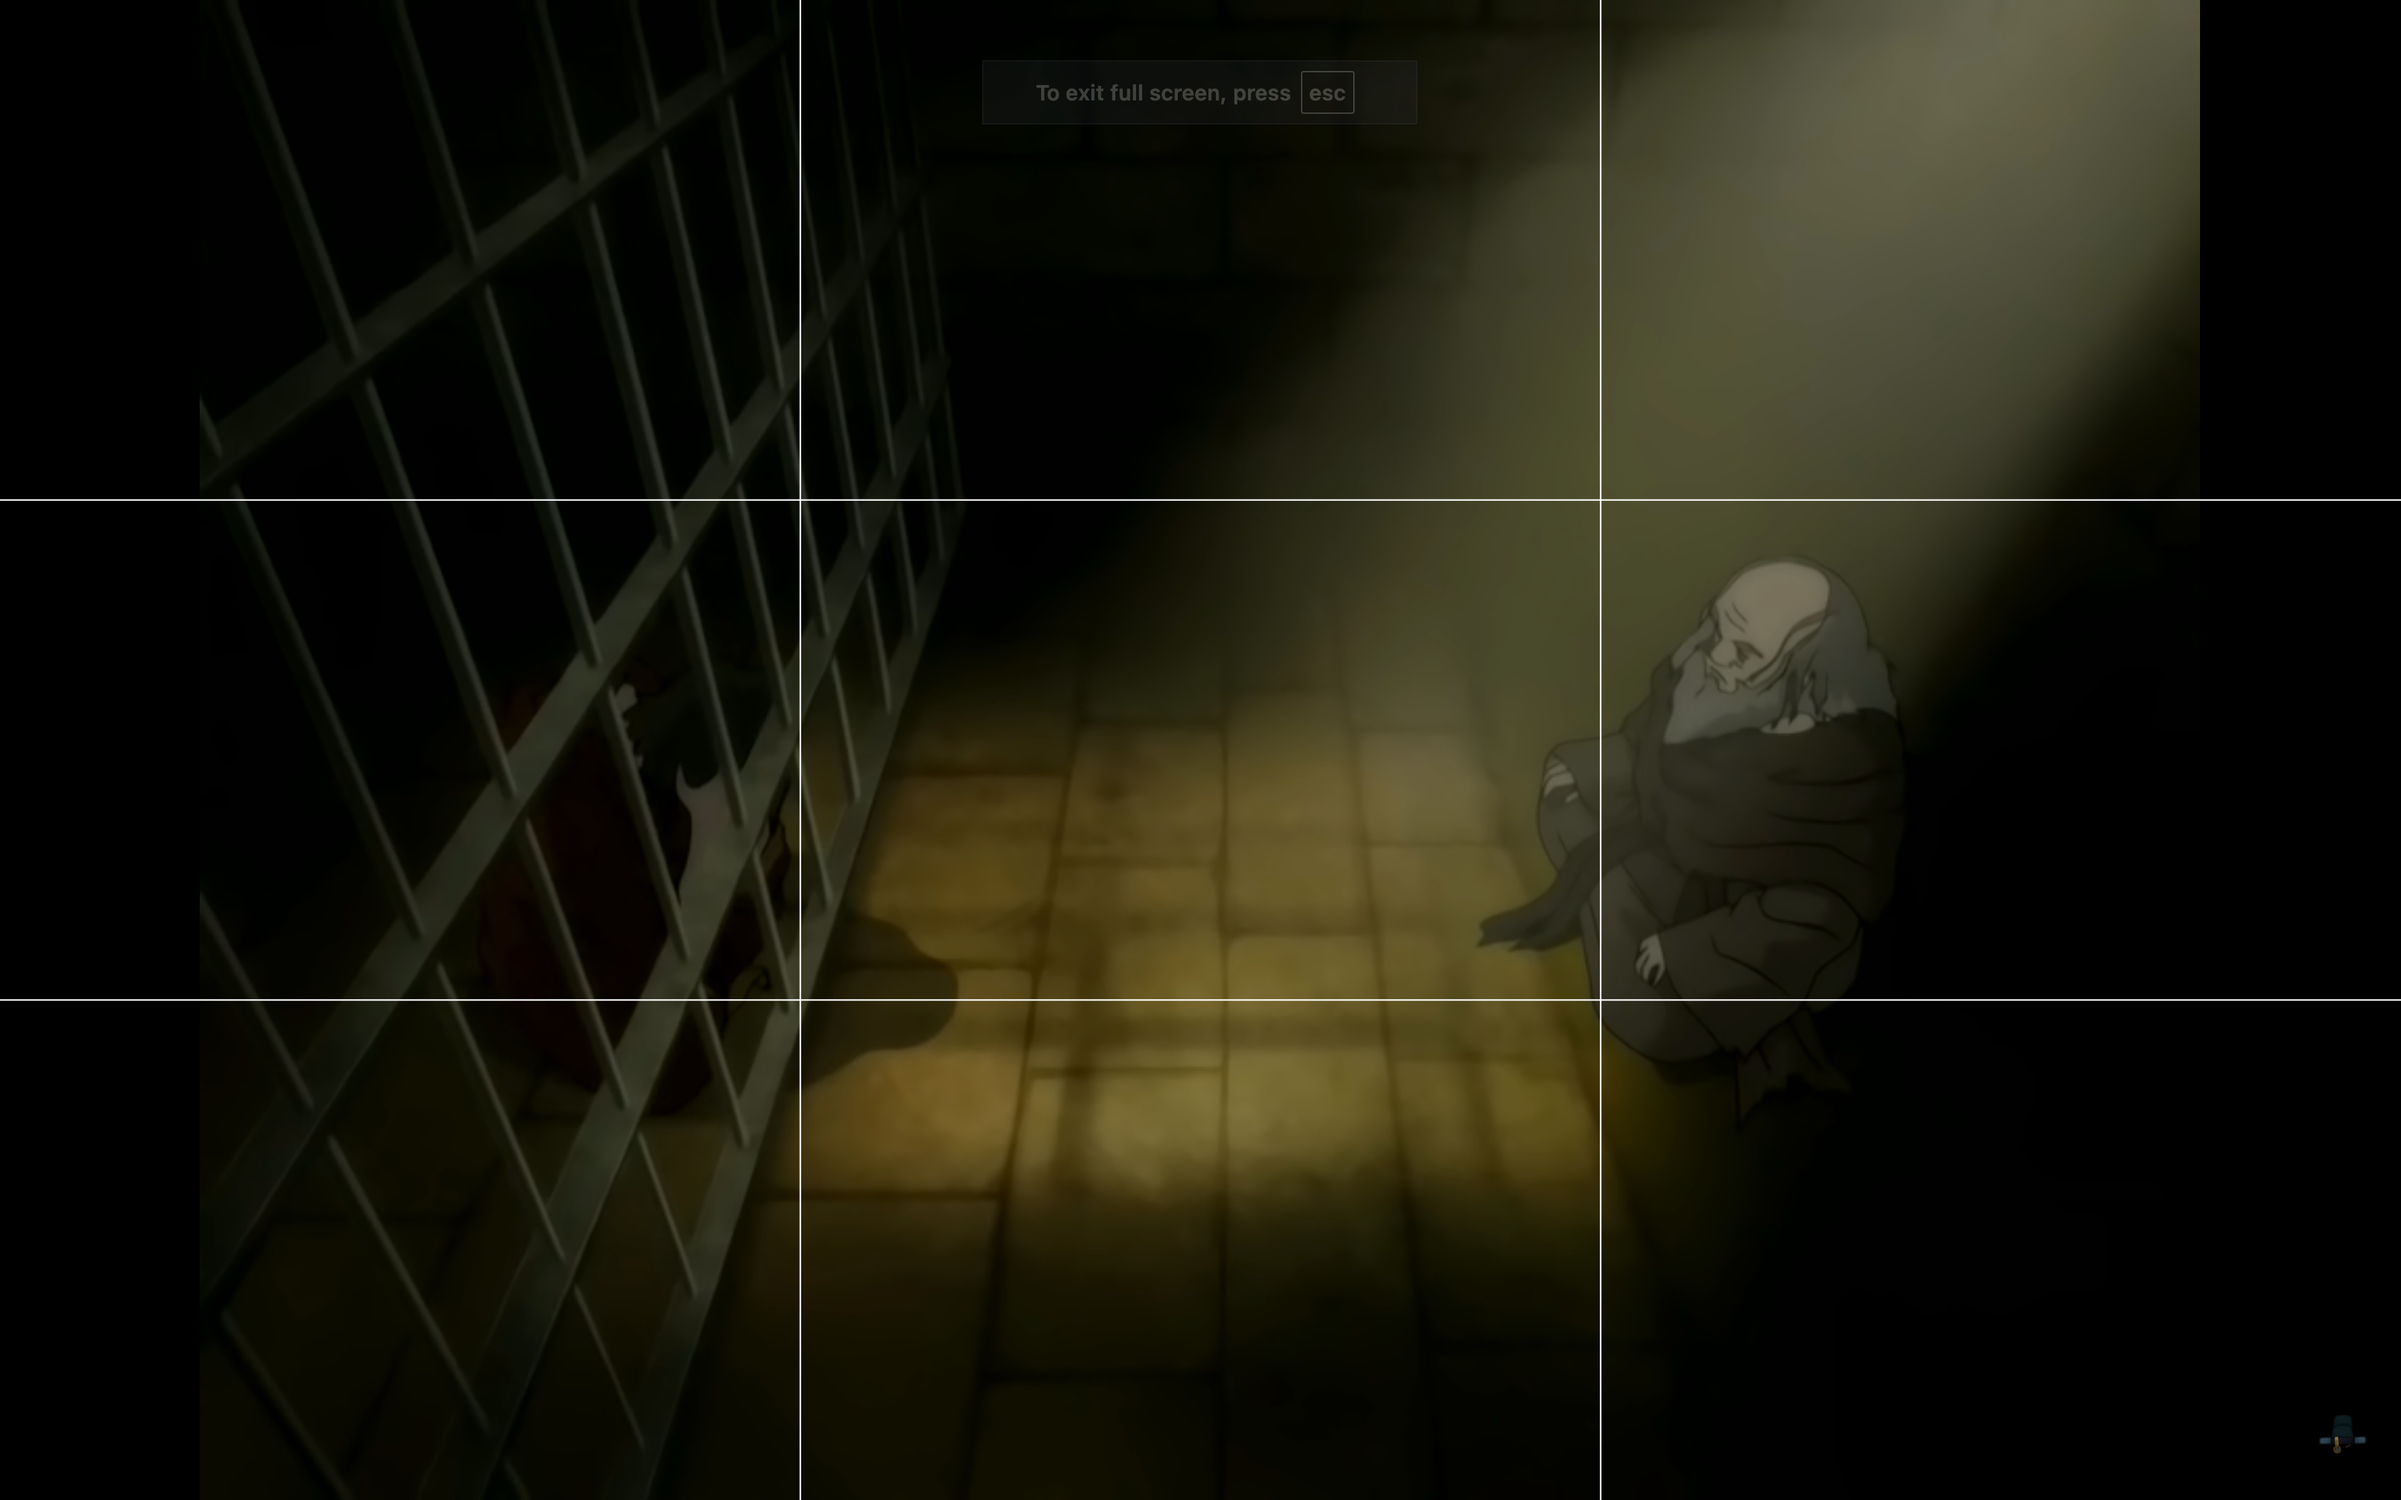
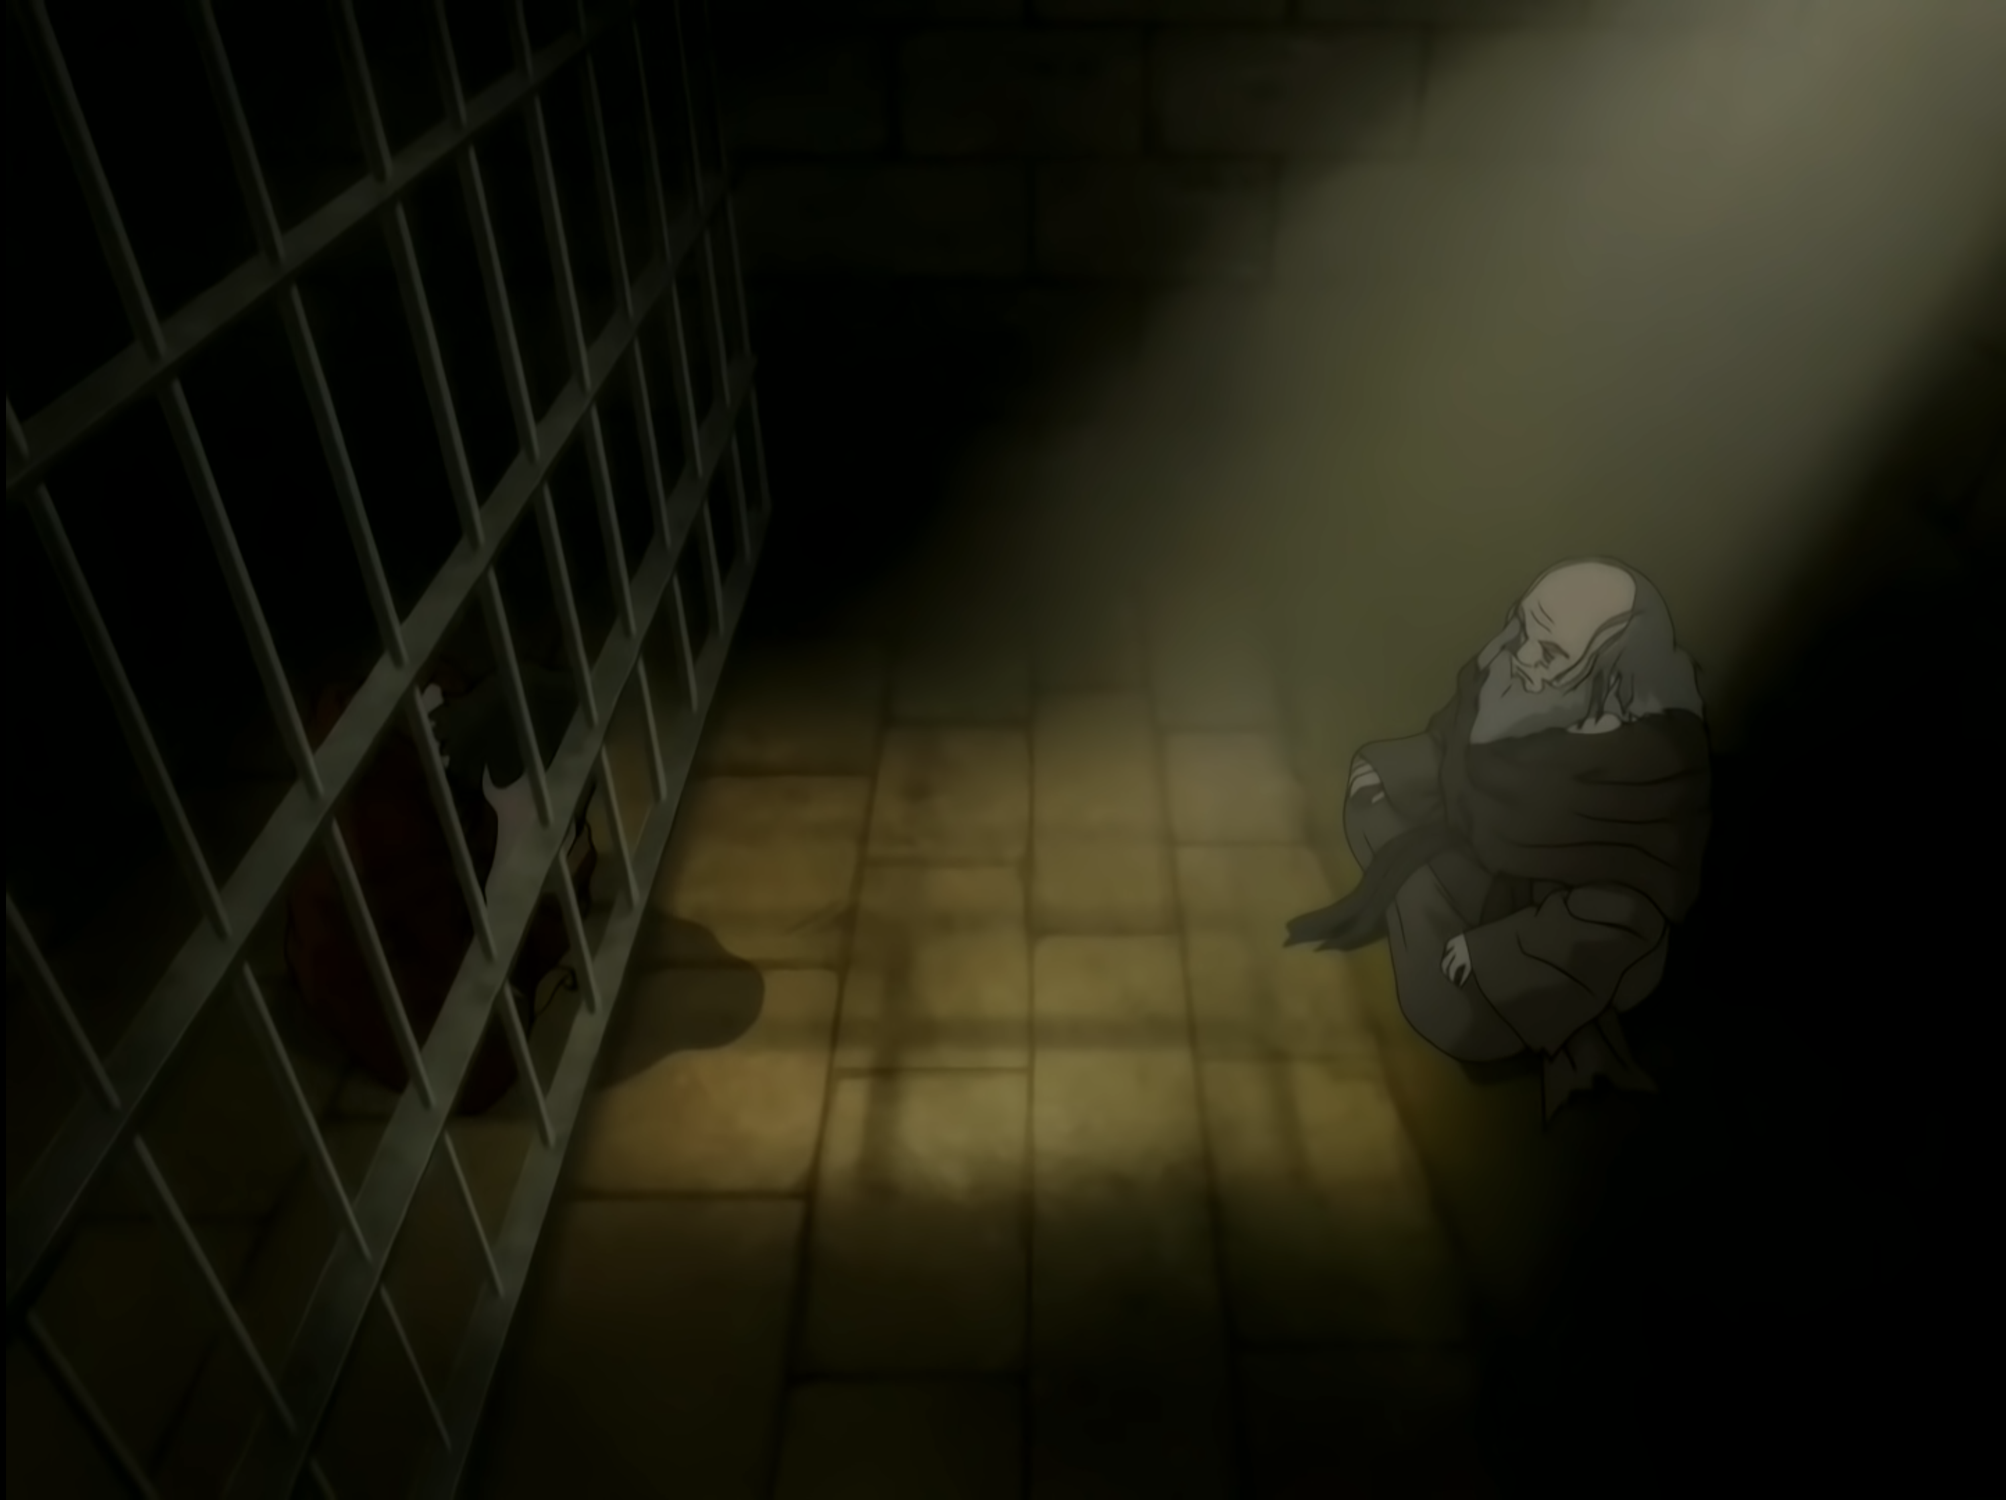
image changes, milestone 6 changes

diff --git a/project5/index.html b/project5/index.html
@@ -3,13 +3,9 @@
         <head>
             <meta charset=utf-8>
             <meta name="viewport" content="width=device-width, initial-scale=1.0">
+            <link rel="stylesheet" href="p5_scripts.js">
+            <link rel="stylesheet" href="p5_styles.css">
             <Title>The Power of Visual Media</Title>
-            <!-- 
-            <style>
-                h1,h2,h3,p,img: centered
-                img{max-width: 100%}
-            </style> 
-            --> 
         </head>
 
         <body> 
@@ -43,7 +39,7 @@
                         Using this 3x3 grid, we can evaluate what parts human eyes are drawn to as the points of interest. The four strongest points 
                         of interest are the points of the centermost square in the grid. Orienting images, characters, and negative space around these 
                         points of interest can incite subtleties that affect a viewers perception of a scene. For example, take this scene from Avatar: The Last Airbender:<br><br>
-                        <img src="../final_project_images/zuko_iroh.png" alt="zuko and iroh in prison trisected horizontally and vertically"> <!-- Resize this image either with img style formatting or taking it to photoshop -->
+                        <img id="gridding" onmouseover= "change()" onmouseout="revert()" src="../final_project_images/zuko_iroh_gridded.png" alt="zuko and iroh in prison trisected horizontally and vertically"> <!-- Resize this image either with img style formatting or taking it to photoshop -->
                     </p>
 
                     <p>

diff --git a/project5/fmab.html b/project5/fmab.html
@@ -3,18 +3,9 @@
         <head>
             <meta charset=utf-8>
             <meta name="viewport" content="width=device-width, initial-scale=1.0">
+            <link rel="stylesheet" href="p5_scripts.js">
+            <link rel="stylesheet" href="p5_styles.css">
             <Title>The Power of Visual Media</Title>
-            <!-- 
-            <style>
-                h1,h2,h3,p: centered
-                img: centered -> May require flex boxes since I want two images side by side and centered
-                .bgimage{
-                    background-image: url('../final_project_images/fmab_banner');
-                    background-size: 5%;
-                }
-                img{max-width: 100%}
-            </style> 
-            --> 
         </head>
 
         <body> 

diff --git a/project5/dmc_5.html b/project5/dmc_5.html
@@ -3,17 +3,9 @@
         <head>
             <meta charset=utf-8>
             <meta name="viewport" content="width=device-width, initial-scale=1.0">
+            <link rel="stylesheet" href="p5_scripts.js">
+            <link rel="stylesheet" href="p5_styles.css">
             <Title>The Power of Visual Media</Title>
-            <!-- 
-            <style>
-                h1,h2,h3,p,img: centered
-                .bgimage{
-                    background-image: url('../final_project_images/fmab_banner');
-                    background-size: 5%;
-                }
-                img{max-width: 100%}
-            </style> 
-            --> 
         </head>
 
         <body> 

diff --git a/project5/p5_styles.css b/project5/p5_styles.css
@@ -1,0 +1,11 @@
+/* Style ideas for fmab.html  
+<style>
+    h1,h2,h3,p: centered
+    img: centered -> May require flex boxes since I want two images side by side and centered
+    .bgimage{
+        background-image: url('../final_project_images/fmab_banner');
+        background-size: 5%;
+    }
+    img{max-width: 100%}
+</style> 
+*/

diff --git a/project5/p5_scripts.js b/project5/p5_scripts.js
@@ -1,0 +1,7 @@
+function change() {
+    /* Give id='gridding' to zuko and iroh image */
+    document.getElementById("gridding").setAttribute("src", "../final_project_images/zuko_iroh_gridded.png")
+}
+function revert() {
+    document.getElementById("gridding").setAttribute("src", "../final_project_images/zuko_iroh.png")
+}
